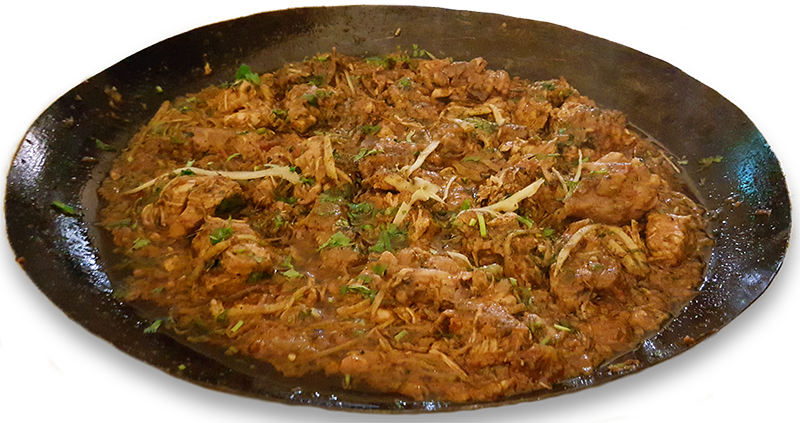
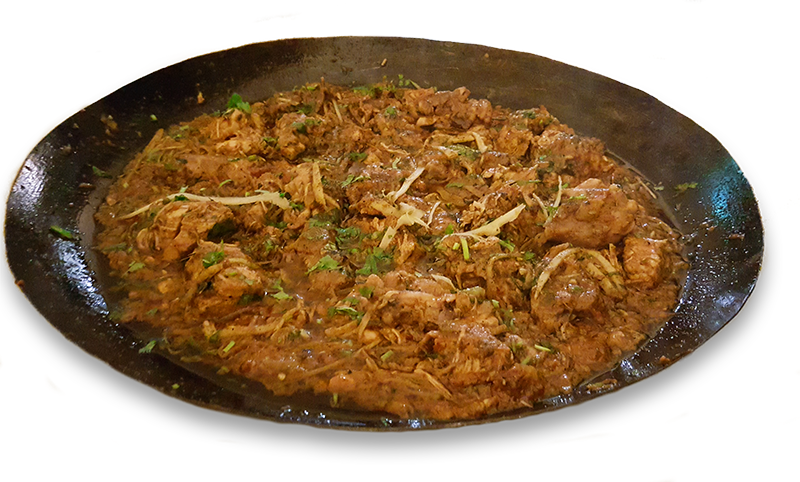
Added Images

diff --git a/app/assets/stylesheets/home.scss b/app/assets/stylesheets/home.scss
@@ -23,19 +23,20 @@ html, body {
 
   img#bg1, img#bg2 {
     position: fixed;
-    opacity: 0.5;
+    opacity: 0.7;
   }
 
   #bg1 {
     width: 800px;
-    top: 0%;
+    height: 530px;
+    top: 5%;
     left: -400px;
   }
 
   #bg2 {
     width: 500px;
     right: -100px;
-    top: 60%;
+    bottom: 0;
   }
 }
 
